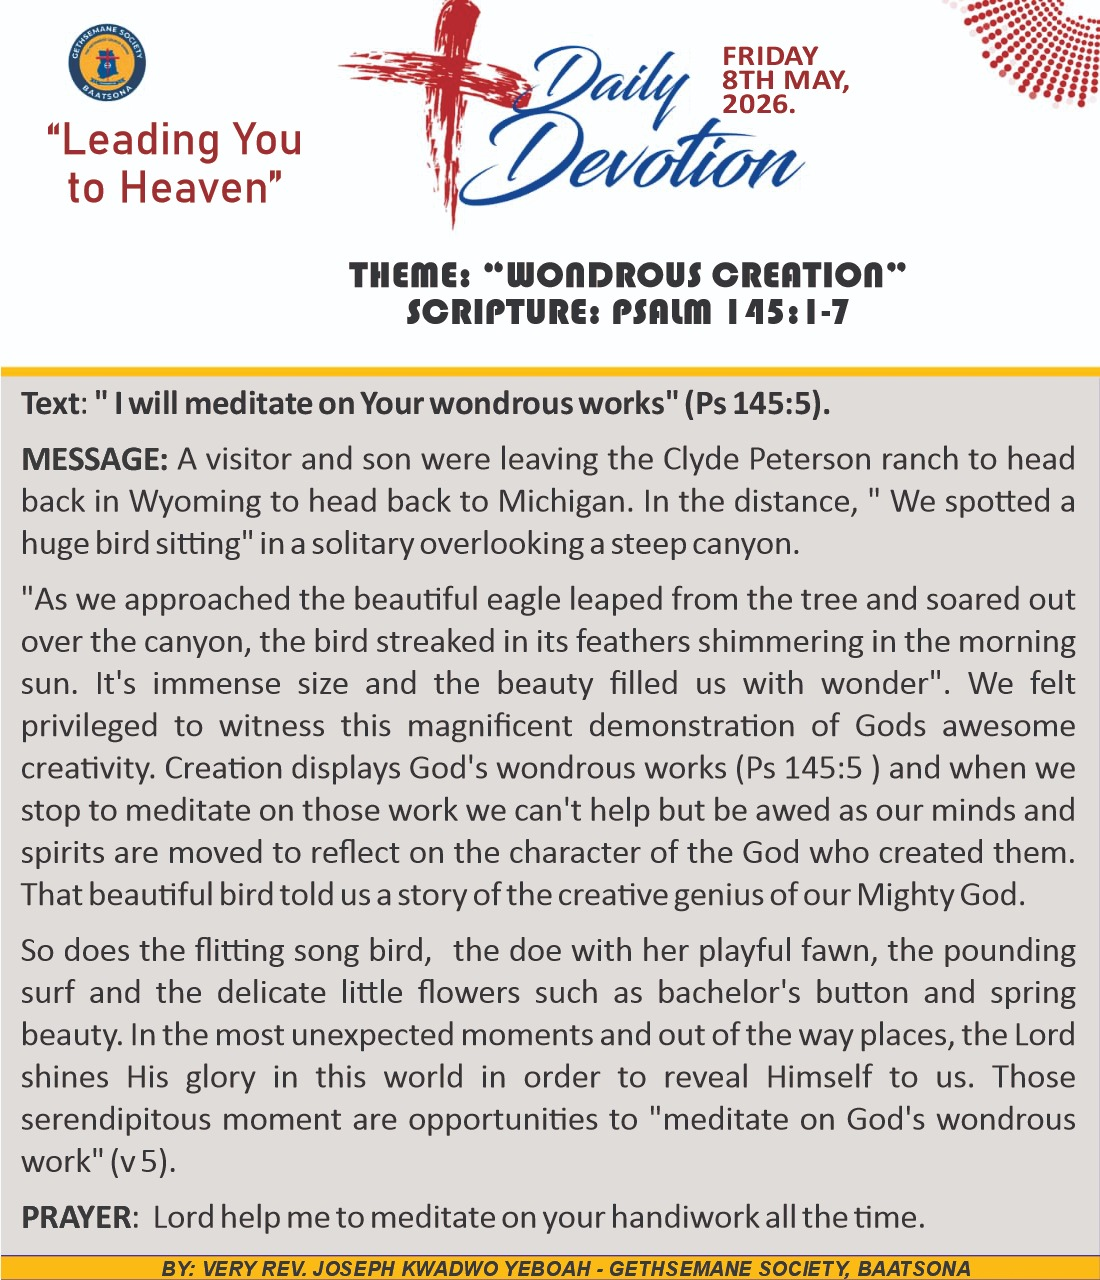
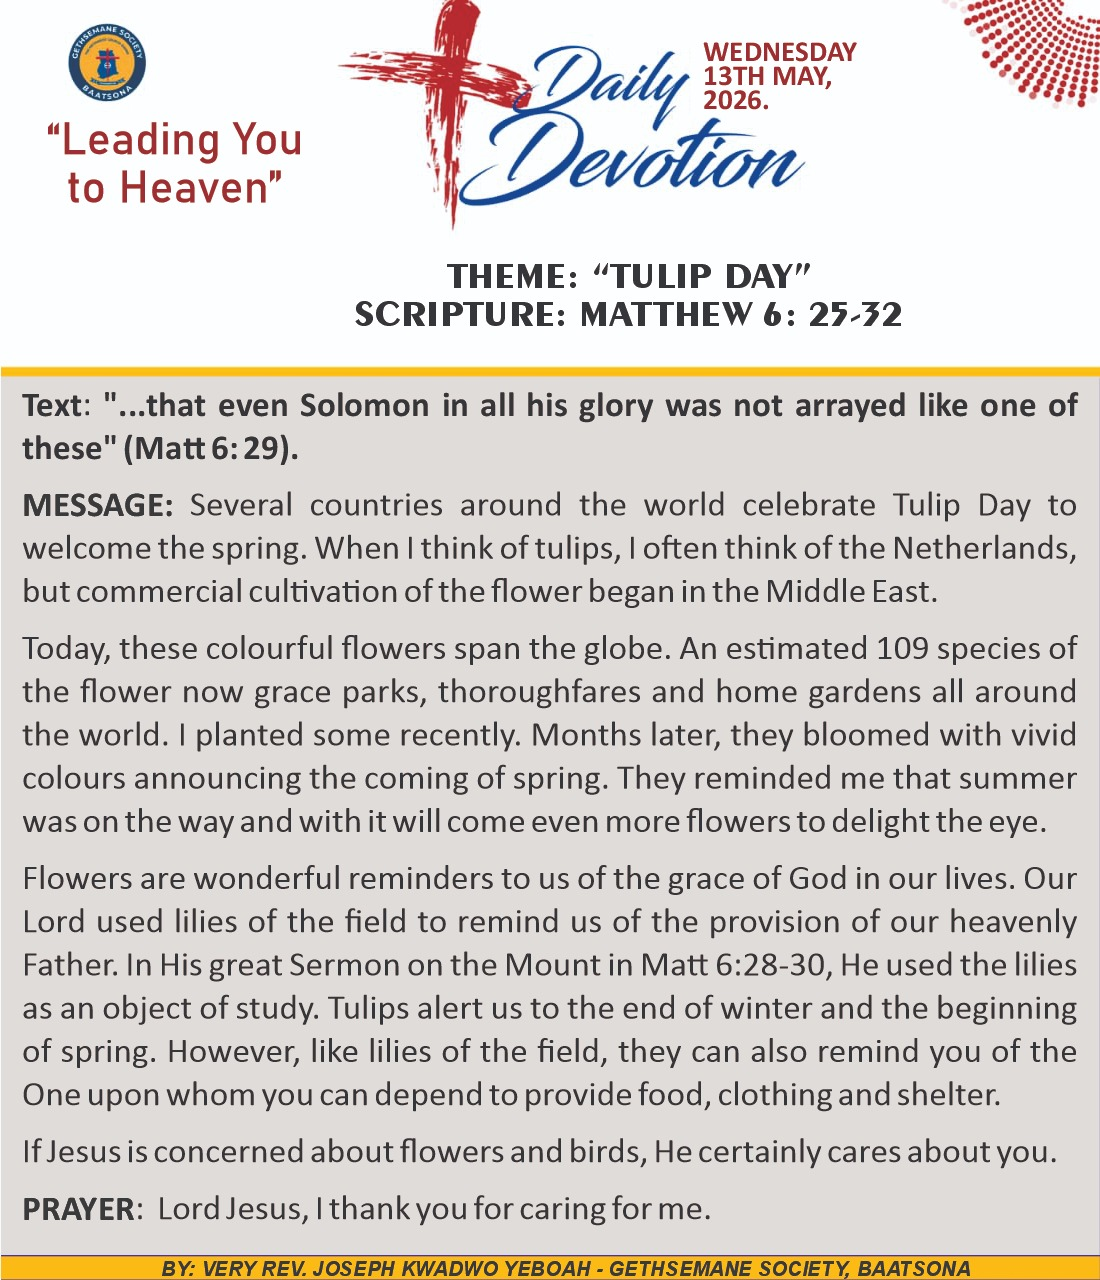
Add files via upload

Changed region(s): [[0.0, 0.2812, 0.9891, 0.9688], [0.3091, 0.1875, 0.8345, 0.25], [0.6182, 0.0312, 0.7727, 0.0938]]

diff --git a/tithe-admin.html b/tithe-admin.html
@@ -1558,7 +1558,7 @@
             <div class="list-card">
                 <div class="list-header">
                     <h3>📋 Failed SMS Messages</h3>
-                    <span style="font-size: 13px; color: #666;">Click "Edit Contact" to update member phone numbers</span>
+                    <span style="font-size: 13px; color: #666;">Click "Edit Contact" to update member's phone numbers</span>
                 </div>
                 <div class="table-container" style="overflow-x: auto; max-height: 500px; overflow-y: auto;">
                     <table style="width: 100%; border-collapse: collapse; min-width: 800px;">
@@ -2425,7 +2425,7 @@ function showApp() {
         const banner = document.createElement('div'); 
         banner.id = 'classBanner'; 
         banner.className = 'class-banner';
-        banner.innerHTML = `<img src="images/logo.jpg" alt="Logo" onerror="this.style.display='none'"> 📘 You are viewing data for: <strong>${currentUser.bibleClass}</strong> (Class Leader - View Only)`;
+        banner.innerHTML = `<img src="Images/Logo.jpg" alt="Logo" onerror="this.style.display='none'"> 📘 You are viewing data for: <strong>${currentUser.bibleClass}</strong> (Class Leader - View Only)`;
         document.getElementById('appScreen').insertBefore(banner, document.getElementById('appScreen').firstChild);
         
         // Lock class selectors
@@ -2922,7 +2922,7 @@ async function exportHistoryToPDF() {
         
         let html = `<div id="pdfExportContent" style="padding: 20px; font-family: 'Times New Roman', serif;">
             <div style="text-align:center; border-bottom:2px solid #000; padding-bottom:15px; margin-bottom:20px;">
-                <img src="images/logo.jpg" style="width: 80px; height: auto; margin-bottom: 10px;" onerror="this.style.display='none'">
+                <img src="Images/Logo.jpg" style="width: 80px; height: auto; margin-bottom: 10px;" onerror="this.style.display='none'">
                 <h1 style="margin: 0;">GETHSEMANE METHODIST CHURCH</h1>
                 <p style="margin: 5px 0;">Baatsona - Tema Spintex Circuit</p>
                 <h3 style="margin: 15px 0 10px 0;">Payment History Report</h3>
@@ -2973,9 +2973,7 @@ async function exportHistoryToPDF() {
     }
 }
 
-// ============================================
-// FAILED SMS - WORKING VERSION
-// ============================================
+
 
 // ============================================
 // FAILED SMS - COMPLETE WITH CLASS LEADER RESTRICTIONS
@@ -3729,7 +3727,7 @@ async function generateReport() {
                 </style>
                 
                 <div class="report-header">
-                    <img src="images/logo.jpg" alt="Church Logo" onerror="this.style.display='none'">
+                    <img src="Images/Logo.jpg" alt="Church Logo" onerror="this.style.display='none'">
                     <h1>GETHSEMANE METHODIST CHURCH</h1>
                     <p>Baatsona - Tema Spintex Circuit</p>
                     <h3 style="margin: 8px 0;">Tithe Payment Report</h3>
@@ -6288,7 +6286,7 @@ function exportTitheAnalysisToPDF() {
     const header = document.createElement('div');
     header.className = 'report-header';
     header.innerHTML = `
-        <img src="images/logo.jpg" onerror="this.style.display='none'">
+        <img src="Images/Logo.jpg" onerror="this.style.display='none'">
         <h1>GETHSEMANE METHODIST CHURCH</h1>
         <p>Baatsona - Tema Spintex Circuit</p>
         <h3>Tithe Member Status Analysis Report</h3>
@@ -6716,7 +6714,7 @@ async function refreshClassLeaderReport() {
         let html = `
 <div id="reportContent" style="padding: 10px; font-family: 'Times New Roman', Times, serif; background: white;">
     <div style="text-align: center; border-bottom: 2px solid #000; padding-bottom: 10px; margin-bottom: 15px;">
-        <img src="images/logo.jpg" alt="Church Logo" style="width: 50px; height: auto; margin-bottom: 5px;" onerror="this.style.display='none'">
+        <img src="Images/Logo.jpg" alt="Church Logo" style="width: 50px; height: auto; margin-bottom: 5px;" onerror="this.style.display='none'">
         <h1 style="margin: 5px 0; font-size: 20px;">GETHSEMANE METHODIST CHURCH</h1>
         <p style="margin: 2px 0; font-size: 11px;">Baatsona - Tema Spintex Circuit</p>
         <p style="margin: 5px 0; font-size: 13px; font-weight: bold;">${currentUser.bibleClass} Class - Tithe Report</p>

diff --git a/attendance.html b/attendance.html
@@ -1661,7 +1661,7 @@
             </style>
 
             <div class="report-header">
-                <img src="images/logo.jpg" style="width:40px;" onerror="this.style.display='none'">
+                <img src="Images/Logo.jpg" style="width:40px;" onerror="this.style.display='none'">
                 <h1>GETHSEMANE METHODIST CHURCH</h1>
                 <p>Baatsona - Tema Spintex Circuit</p>
                 <h3>Attendance Report</h3>
@@ -2278,7 +2278,7 @@
         const header = document.createElement('div');
         header.className = 'report-header';
         header.innerHTML = `
-            <img src="images/logo.jpg" onerror="this.style.display='none'">
+            <img src="Images/Logo.jpg" onerror="this.style.display='none'">
             <h1>GETHSEMANE METHODIST CHURCH</h1>
             <p>Baatsona - Tema Spintex Circuit</p>
             <h3>Member Status Analysis Report</h3>
